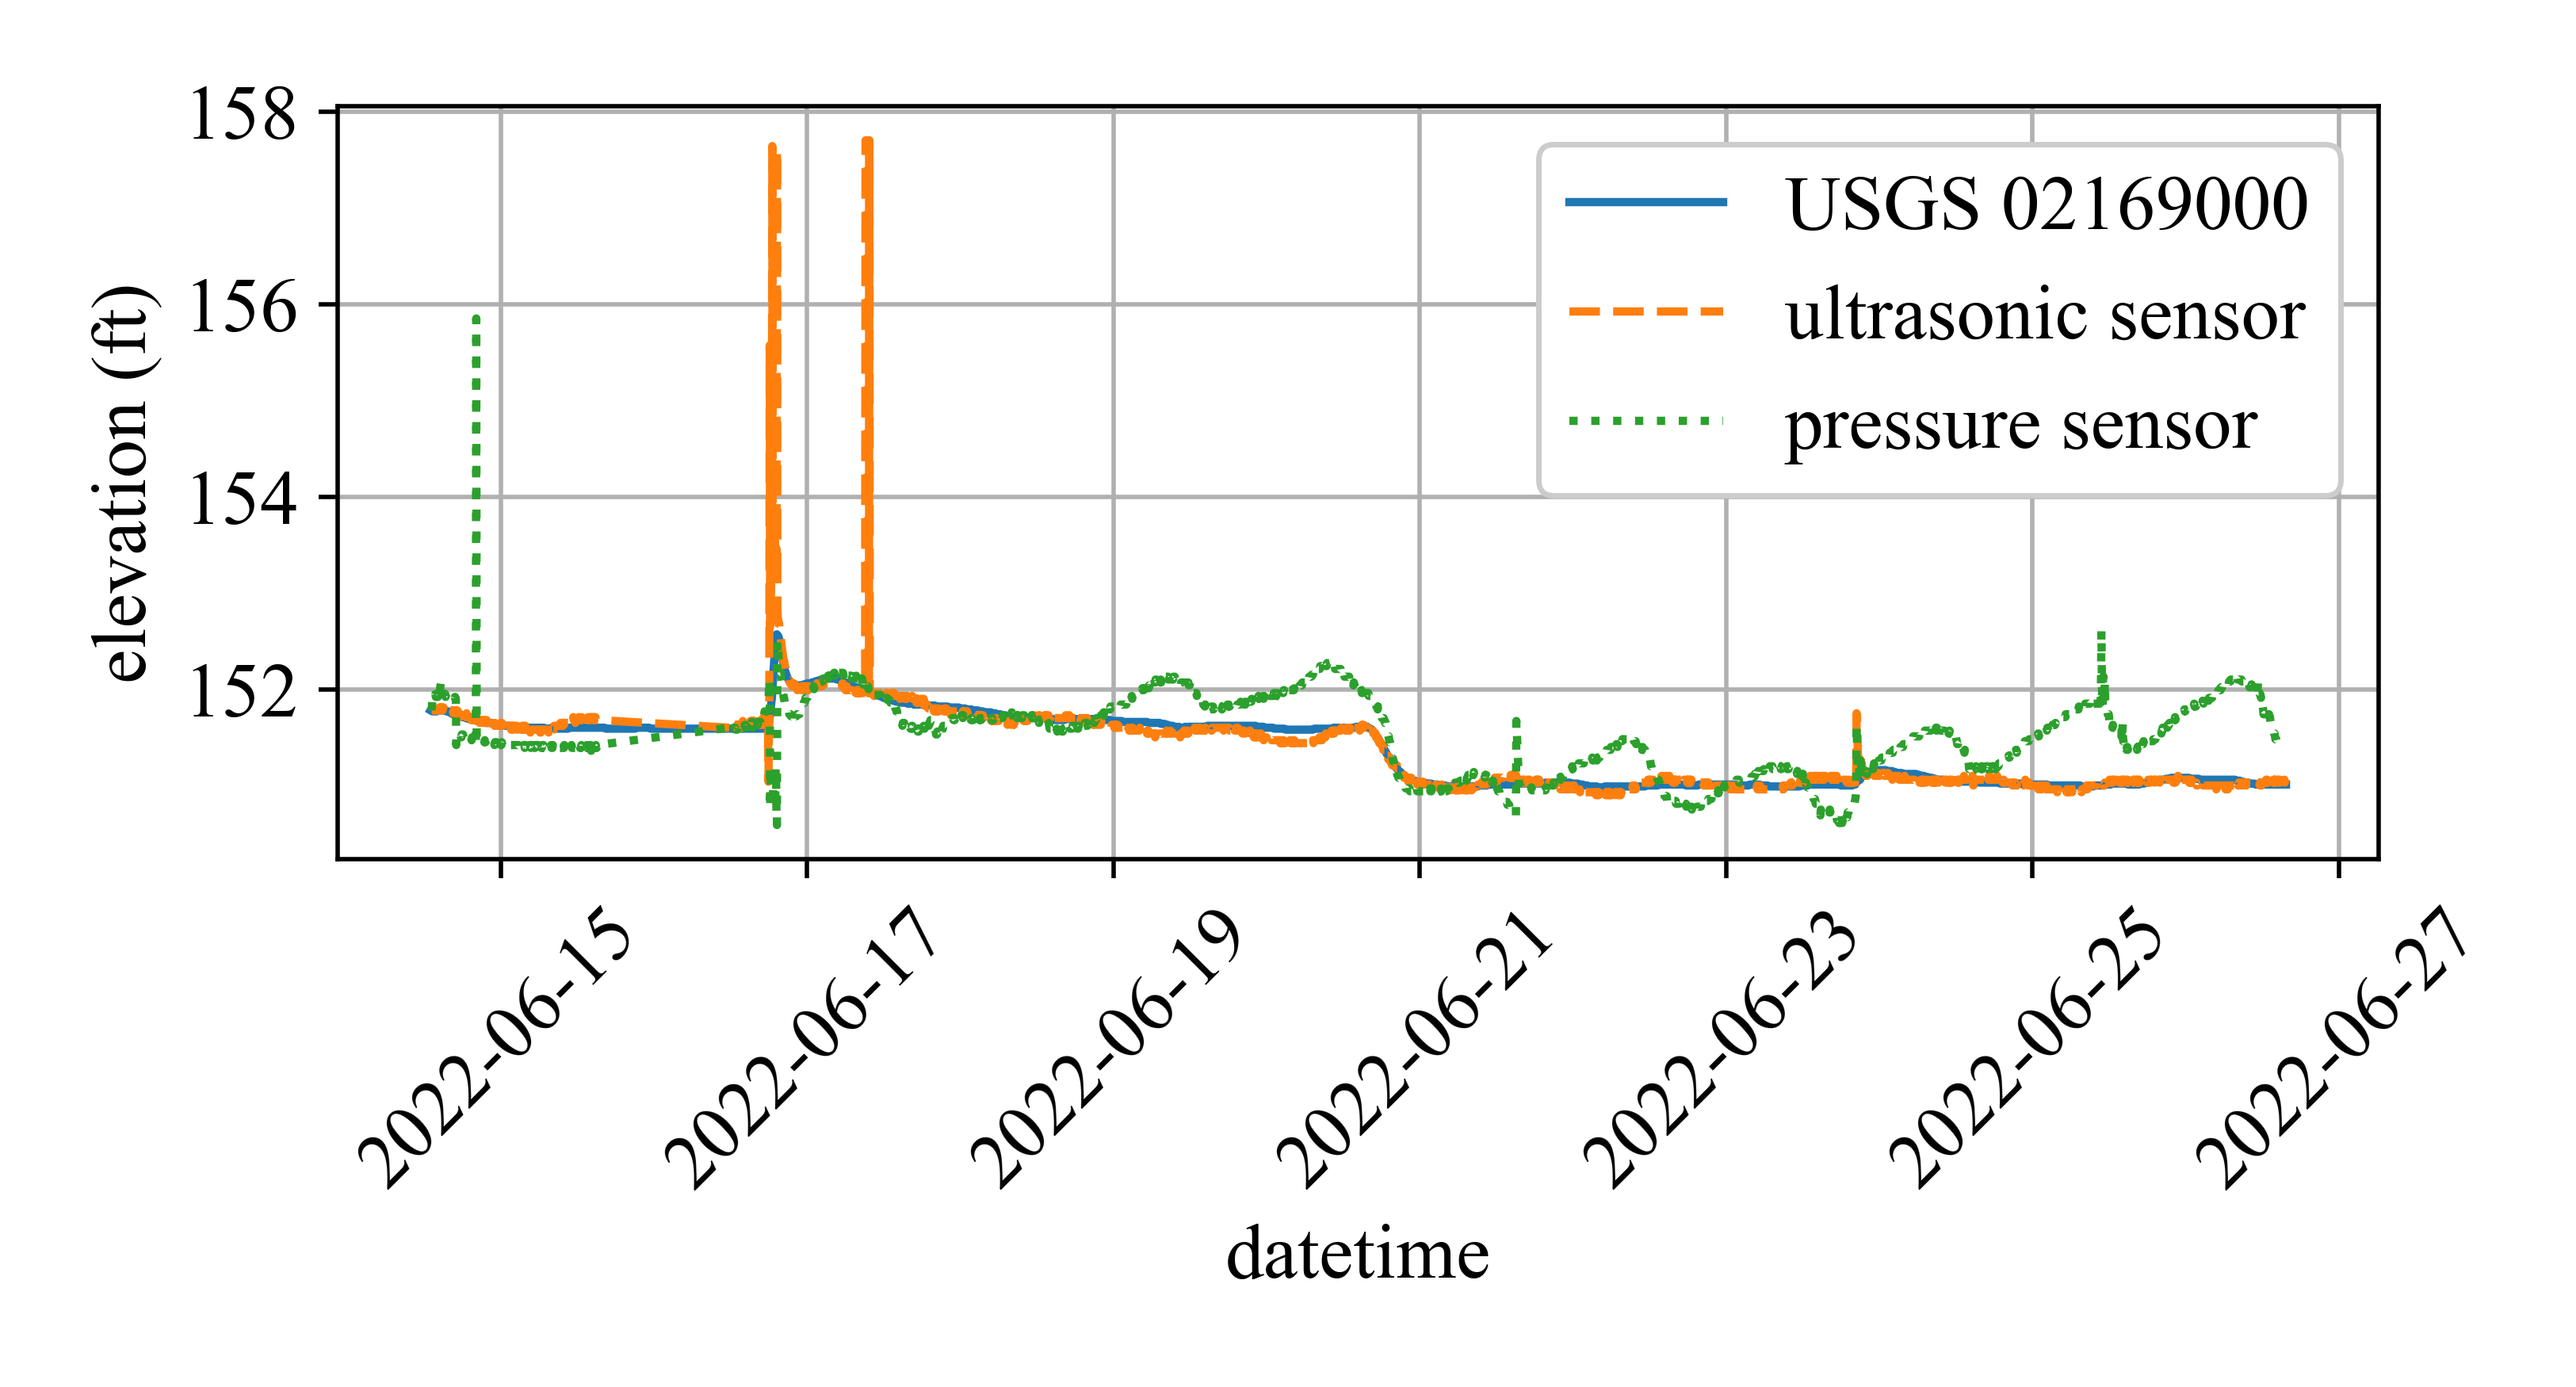
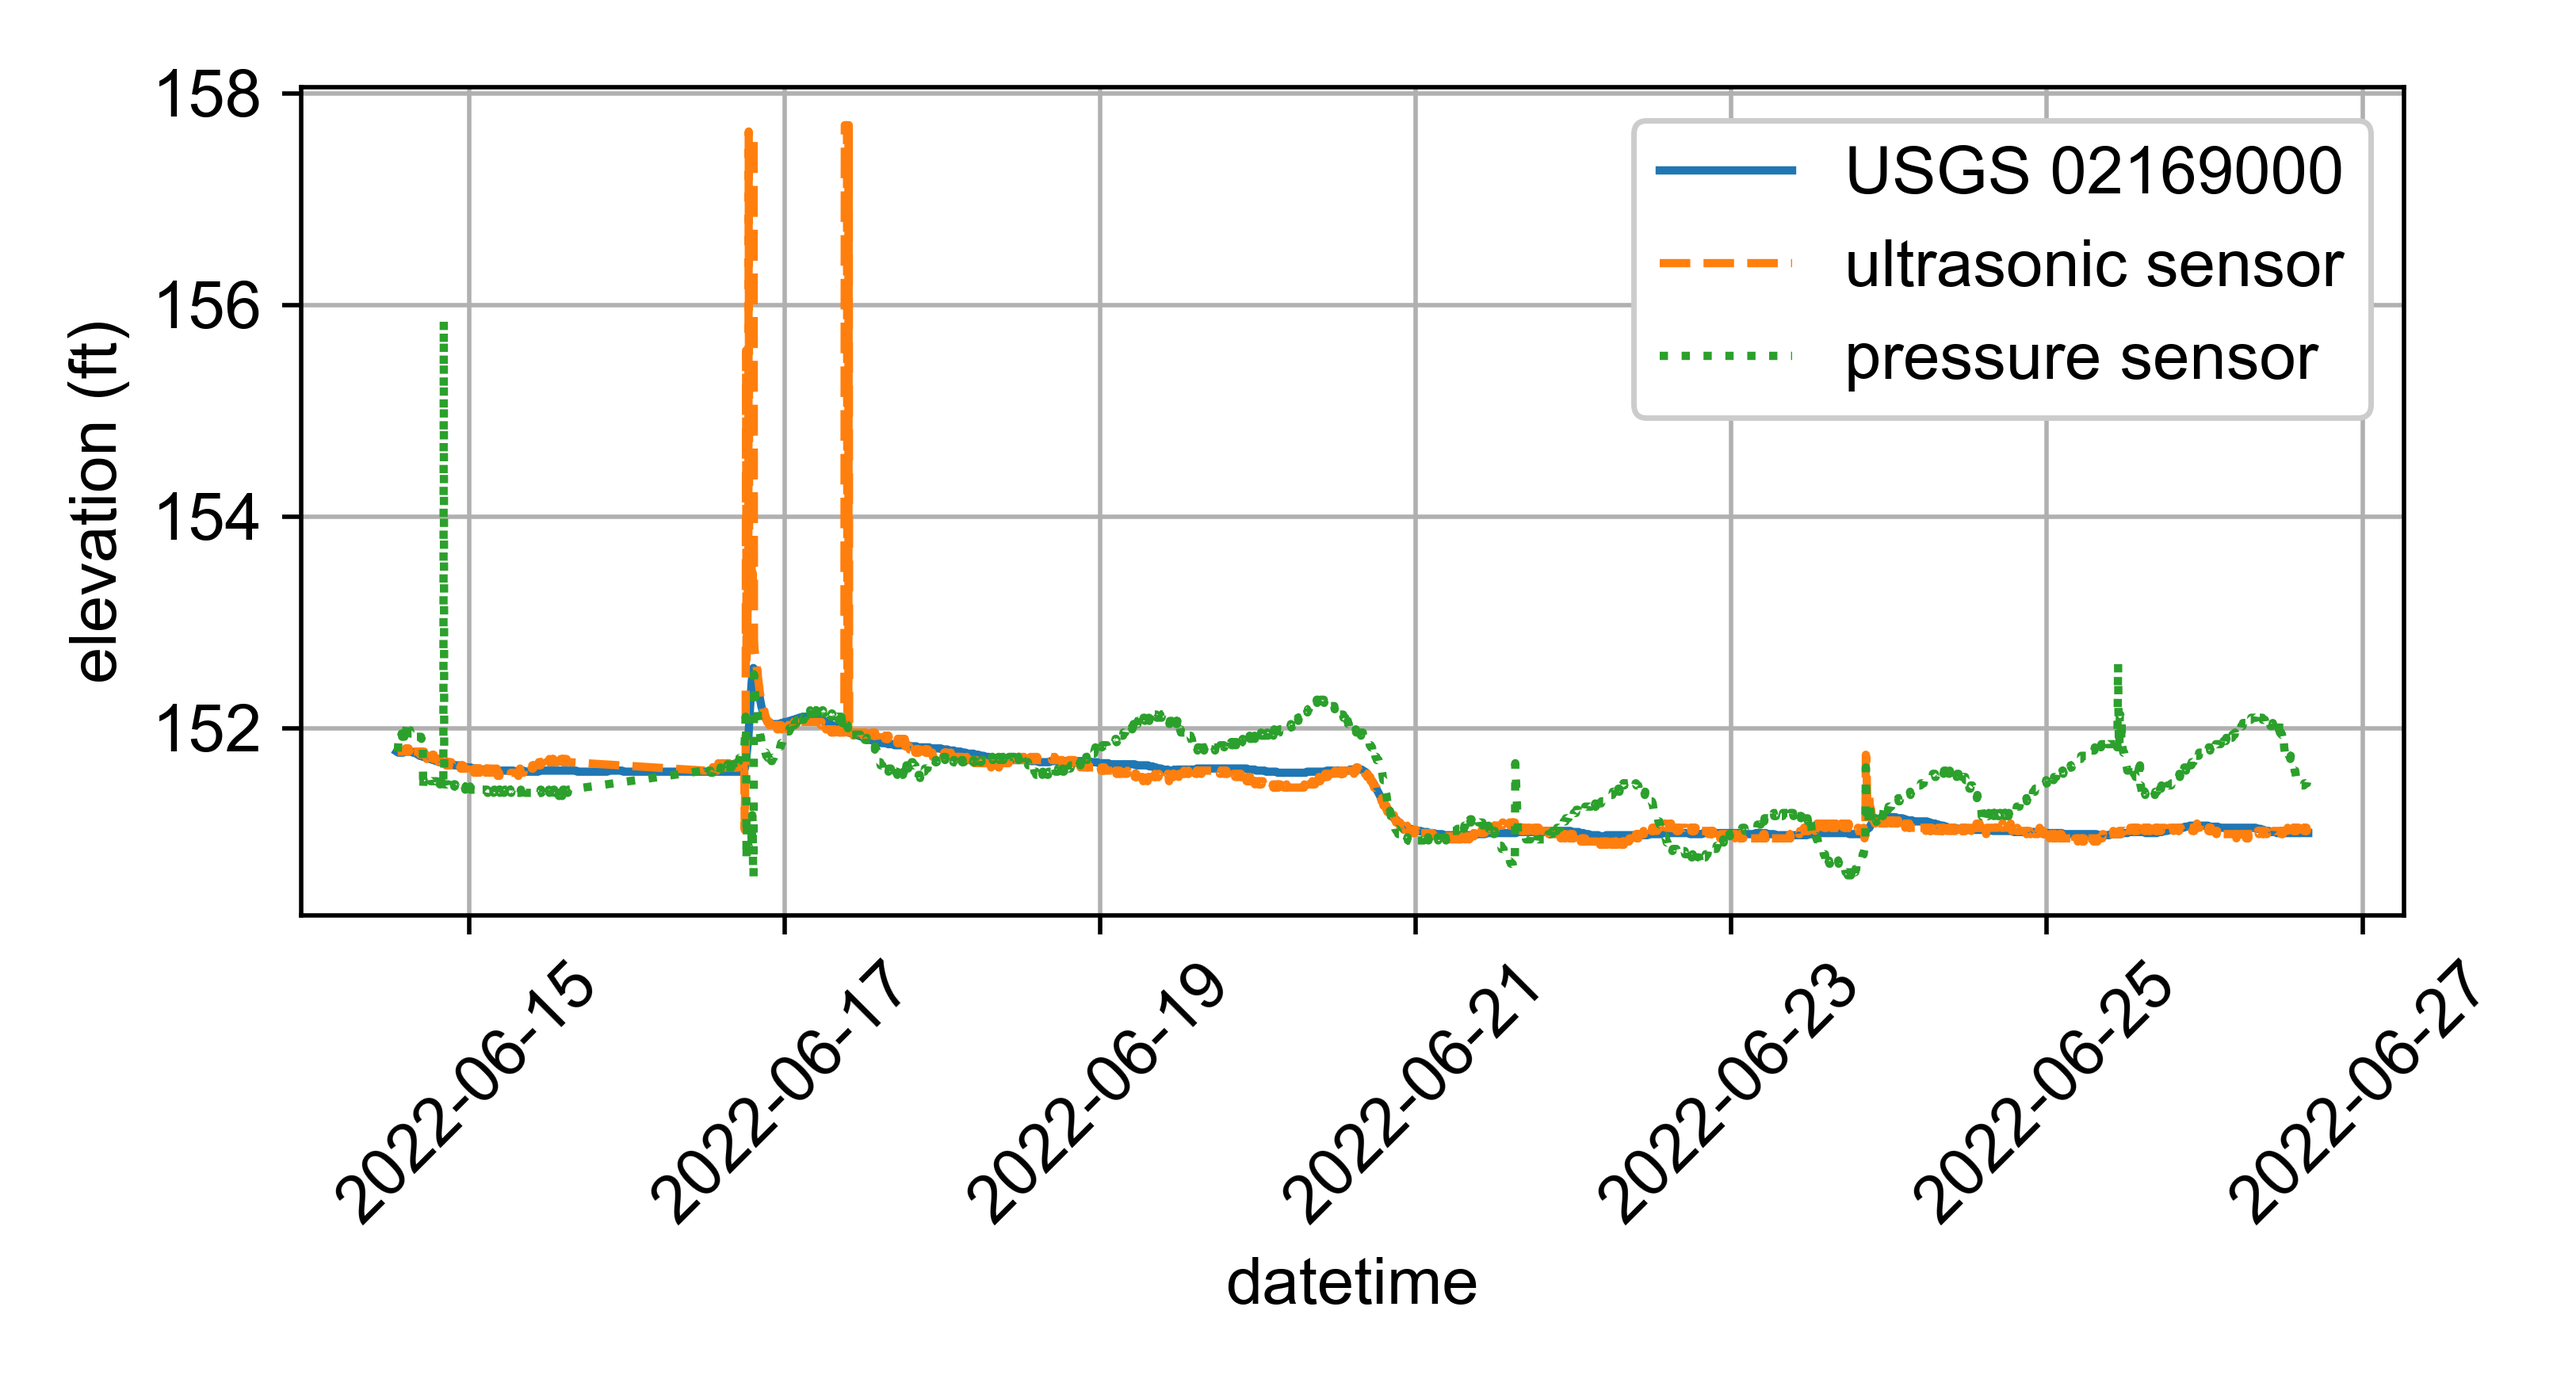
change font to arial

diff --git a/field tests/06_14-06_27/plot_data.py b/field tests/06_14-06_27/plot_data.py
@@ -14,8 +14,8 @@ import pylab as pl
 import numpy as np
 import sys
 np.set_printoptions(threshold=sys.maxsize)
-plt.rcParams["font.family"] = "Times New Roman"
-mpl.rcParams.update({'font.size': 14})
+plt.rcParams["font.family"] = "Arial"
+mpl.rcParams.update({'font.size': 12})
 
 import IPython as IP
 IP.get_ipython().magic('reset -sf')
@@ -50,14 +50,14 @@ plt.plot(df0['Datetime'], df0['stage'], '-', label='USGS 02169000')
 plt.plot(df3['Datetime'], df3['value'], '--', label='ultrasonic sensor')
 plt.plot(df5['Datetime'], df5['elevation'], ':', label='pressure sensor')
 plt.plot(df6['Datetime'], df6['Sensor depth with corrected elevation'], "-.", label = "HOBO sensor")
-#plt.legend(framealpha=1)
+plt.legend(framealpha=1)
 plt.xlabel('datetime')
 plt.ylabel('elevation (ft)')
 plt.locator_params(axis="x", nbins=5)
 plt.xticks(rotation=45)
 plt.tight_layout()
 plt.grid(True)
-#plt.savefig('data_filtered.png', dpi=500)
+plt.savefig('data_filtered.png', dpi=500)
 
 
 #%% Comparing raw water HOBO pressure with pressure sensor
